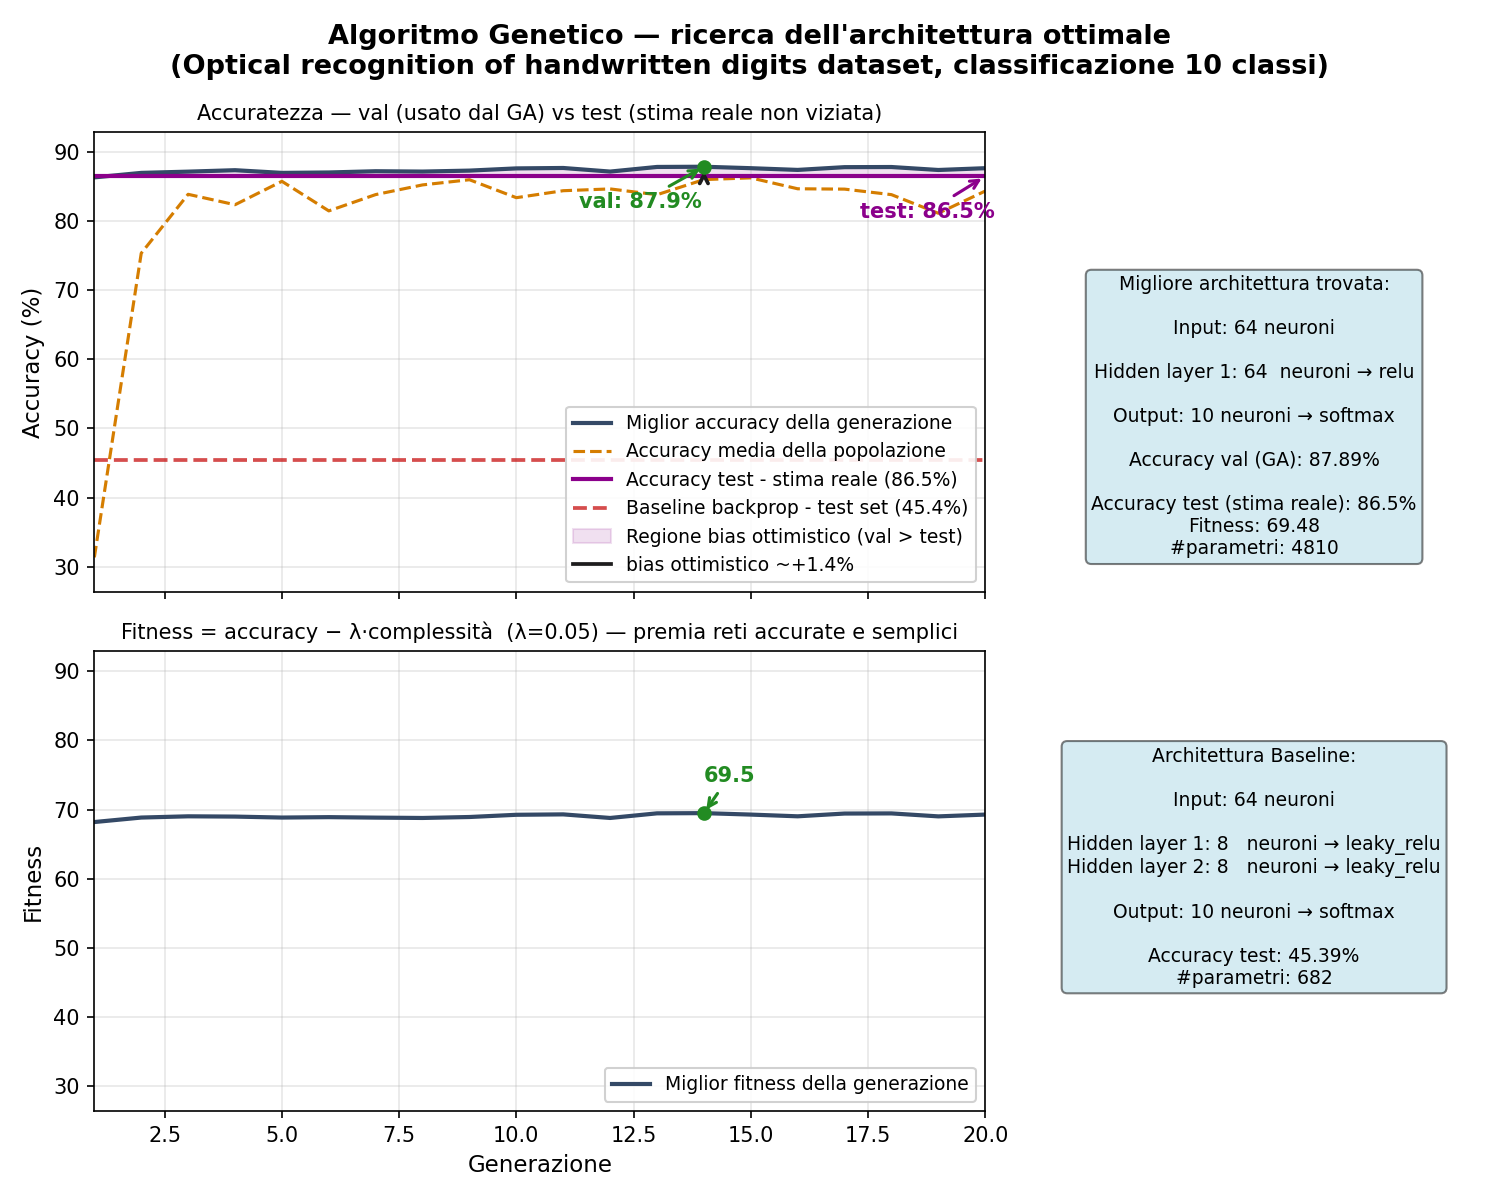
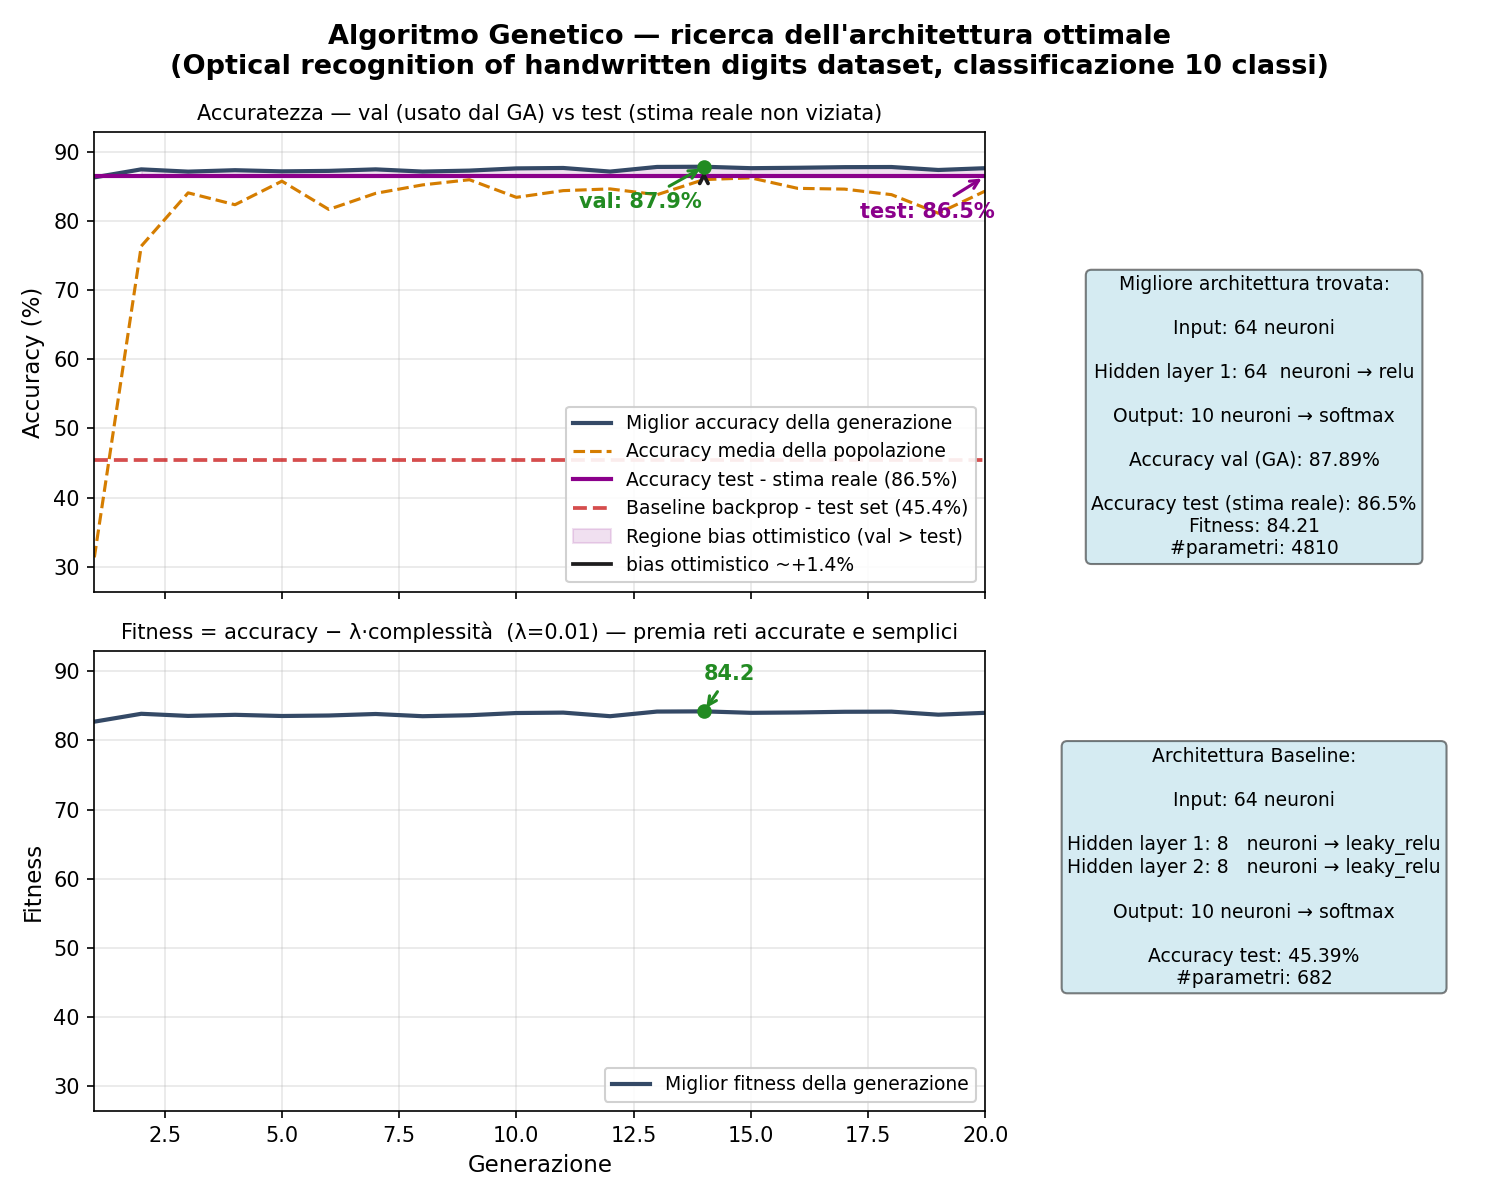
style: added logging in all main modules; test: training_a_nn and test_on_trained_nn created to use the best nn architecture founded

diff --git a/src/training_a_nn.py b/src/training_a_nn.py
@@ -1,0 +1,131 @@
+import sys
+from pathlib import Path
+sys.path.insert(0, str(Path(__file__).resolve().parent))
+
+from neural_network.nn_engine import neural_network
+from neural_network.nn_layer import leaky_relu, softmax
+from sklearn.datasets import load_digits
+from sklearn.model_selection import train_test_split
+from sklearn.preprocessing import StandardScaler
+from scipy.ndimage import gaussian_filter, shift
+import numpy as np
+import pickle
+import random
+
+RUNS          = 15
+EPOCHS        = 1000
+LR_START      = 0.02   # learning rate iniziale
+LR_DECAY      = 0.97   # moltiplicatore ogni 50 epoche
+LR_MIN        = 0.003  # soglia minima
+SAVE_PATH     = Path(__file__).resolve().parent / "test_app" / "model.pkl"
+
+
+def augment_sample(img8x8, rng):
+    """
+    Trasforma un campione 8×8 (valori 0–16) simulando variazioni realistiche:
+    - blur gaussiano (simula il pennello morbido del canvas)
+    - jitter spaziale ±1 pixel (simula diverse centrature)
+    - scaling dell'intensità ×0.7–1.3 (simula diversa pressione del pennello)
+    - rumore gaussiano leggero
+    """
+    img = img8x8.reshape(8, 8).astype(float)
+
+    # blur: simula il falloff del pennello
+    sigma = rng.uniform(0.2, 0.8)
+    img = gaussian_filter(img, sigma=sigma)
+
+    # jitter spaziale: shift ±1 px con bordi a 0
+    dr = rng.integers(-1, 2)
+    dc = rng.integers(-1, 2)
+    img = shift(img, [dr, dc], mode='constant', cval=0.0)
+
+    # scaling intensità
+    scale = rng.uniform(0.70, 1.30)
+    img = img * scale
+
+    # rumore gaussiano leggero
+    img = img + rng.normal(0, 0.5, img.shape)
+
+    return np.clip(img, 0, 16).reshape(-1)
+
+
+def build_augmented_set(X_raw, Y_raw, rng, n_aug=4):
+    """
+    Costruisce il training set aumentato:
+    - campioni originali
+    - n_aug versioni augmentate per campione
+    - versione binarizzata (simula vecchia UI binaria)
+    """
+    parts_X = [X_raw]
+    parts_Y = [Y_raw]
+
+    for _ in range(n_aug):
+        X_aug = np.array([augment_sample(x, rng) for x in X_raw])
+        parts_X.append(X_aug)
+        parts_Y.append(Y_raw)
+
+    # binarizzata: pixel >= 8 → 16, altrimenti 0
+    X_bin = np.where(X_raw >= 8.0, 16.0, 0.0)
+    parts_X.append(X_bin)
+    parts_Y.append(Y_raw)
+
+    return np.vstack(parts_X), np.vstack(parts_Y)
+
+
+if __name__ == "__main__":
+    digits = load_digits()
+    X, y = digits.data, digits.target
+    Y_onehot = np.eye(10)[y]
+
+    best_accuracy = 0.0
+
+    for run in range(RUNS):
+        seed = random.randint(0, 1000)
+        rng = np.random.default_rng(seed)
+
+        X_train_raw, X_test_raw, Y_train, Y_test = train_test_split(
+            X, Y_onehot, test_size=0.2, random_state=seed, stratify=y
+        )
+
+        X_train_aug, Y_train_aug = build_augmented_set(X_train_raw, Y_train, rng)
+
+        scaler = StandardScaler()
+        X_train_scaled = scaler.fit_transform(X_train_aug)
+        X_test_scaled  = scaler.transform(X_test_raw)
+
+        nn = neural_network(
+            hidden_config=[(64, leaky_relu), (32, leaky_relu)],
+            size_input=64,
+            size_output=10,
+            learning_rate=LR_START,
+            output_function=softmax,
+            rng=rng,
+        )
+
+        for epoch in range(EPOCHS):
+            # learning rate decay ogni 50 epoche
+            if epoch > 0 and epoch % 50 == 0:
+                nn.lr = max(LR_MIN, nn.lr * LR_DECAY)
+
+            perm = np.random.permutation(len(X_train_scaled))
+            for idx in perm:
+                nn.feedback(X_train_scaled[idx], Y_train_aug[idx])
+
+        correct = sum(
+            1 for j in range(len(X_test_scaled))
+            if np.argmax(nn.feedforward(X_test_scaled[j])['guess']) == np.argmax(Y_test[j])
+        )
+        accuracy = correct / len(X_test_scaled)
+        final_lr = nn.lr
+
+        print(f"run {run+1:2d}/{RUNS}  seed={seed:4d}  acc={accuracy:.4f}  lr_final={final_lr:.5f}", end="")
+
+        if accuracy > best_accuracy:
+            best_accuracy = accuracy
+            with open(SAVE_PATH, "wb") as f:
+                pickle.dump({"nn": nn, "scaler": scaler}, f)
+            print("  ← saved")
+        else:
+            print()
+
+    print(f"\nbest accuracy: {best_accuracy:.4f}  →  {SAVE_PATH}")

diff --git a/src/main.py b/src/main.py
@@ -15,8 +15,13 @@ import os
 import time
 import logging
 
-logging.basicConfig(level=logging.INFO, format="[%(levelname)s] %(message)s")
+logging.basicConfig(level=logging.INFO, 
+                    format="[%(levelname)s] %(message)s",
+                    filename='app.log',         # Nome del file di output
+                    filemode='w'
+                    )
 logger = logging.getLogger(__name__)
+
 
 
 def one_hot(y, n_classes=3):
@@ -94,15 +99,15 @@ def mean_accuracy_on_K_runs(individuo, n_feature, n_output, learning_rate, epoch
 
 SEED = 0
 
-K = 20 # numero di addestramenti per individuo
+K = 3 # numero di addestramenti per individuo
 
-POPULATION_SIZE = 30
-GENERATIONS = 20
+POPULATION_SIZE = 20
+GENERATIONS = 50
 MUTATION_RATE = 0.2
 TOURNAMENT_SIZE = 10
 EPOCHS = 500
-LEARNING_RATE = 0.01
-LAMBDA_ = 0.01
+LEARNING_RATE = 0.05
+LAMBDA_ = 0.05
 
 
 def run(
@@ -182,9 +187,9 @@ def run(
     # della rete migliore trovata
 
     # primo split: separa il test set (20% del totale) → non sarà mai usato nel GA
-    x_trainval, x_test, y_trainval, y_test = train_test_split(x, y, test_size=0.2, random_state=seed)
+    x_trainval, x_test, y_trainval, y_test = train_test_split(x, y, test_size=0.2, random_state=seed, stratify=y)
     # secondo split: separa val dal rimanente 80% → usato dal GA per valutare la fitness
-    x_train, x_val, y_train, y_val = train_test_split(x_trainval, y_trainval, test_size=0.25, random_state=seed)
+    x_train, x_val, y_train, y_val = train_test_split(x_trainval, y_trainval, test_size=0.25, random_state=seed, stratify=y_trainval)
     # 0.25 x 0.80 = 0.2 del totale → split finale 60/20/20
 
     # Normalizzazione: X ← (X - media(X)) / std(X)
@@ -206,7 +211,7 @@ def run(
         y_train, x_train, y_test, x_test,
         K, seed=seed
     )
-    logger.info(f"accuracy della rete baseline: {round(accuracy_baseline * 100, 2)}%\n#params: {number_params(input_size, cromosoma_baseline, n_classi)}")
+    logger.debug(f"accuracy della rete baseline: {round(accuracy_baseline * 100, 2)}%\n#params: {number_params(input_size, cromosoma_baseline, n_classi)}")
 
     # ESECUZIONE DEL Genetic Algorithm
     ga = genetic_algorithm.GeneticAlgorithm(
@@ -230,7 +235,7 @@ def run(
     (best_individuo, best_fitness, best_accuracy,
      storia_best_fitness, storia_best_accuracy, storia_mean_accuracy) = ga.run()
     stop_time = time.perf_counter()
-    logger.info(f"tempo di esecuzione: {stop_time - start_time:.2f}s")
+    logger.debug(f"tempo di esecuzione: {stop_time - start_time:.2f}s")
 
     storia_best_fitness  = [round(v * 100, 2) for v in storia_best_fitness]
     storia_best_accuracy = [round(v * 100, 2) for v in storia_best_accuracy]
@@ -244,7 +249,7 @@ def run(
         K=K, seed=seed
     )
 
-    logger.info(f"Accuracy sul validation set (ottimizzazione GA): {round(best_accuracy * 100, 2)}%")
+    logger.debug(f"Accuracy sul validation set (ottimizzazione GA): {round(best_accuracy * 100, 2)}%")
     logger.info(f"Accuracy sul test set (stima reale): {round(test_accuracy * 100, 2)}%")
 
     # formatting per grafica e output
@@ -254,10 +259,10 @@ def run(
     test_accuracy_pct  = round(test_accuracy * 100, 2)
 
     logger.info(f"Miglior architettura trovata:\n{best_individuo_str}")
-    logger.info(f"Fitness: {best_fitness_pct}")
-    logger.info(f"Accuracy val: {best_accuracy_pct}%")
-    logger.info(f"Numero di layer={len(best_individuo_str)}")
-    logger.info(f"#parametri={number_params(input_size, best_individuo_str, n_classi)}")
+    logger.debug(f"Fitness: {best_fitness_pct}")
+    logger.debug(f"Accuracy val: {best_accuracy_pct}%")
+    logger.debug(f"Numero di layer={len(best_individuo_str)}")
+    logger.debug(f"#parametri={number_params(input_size, best_individuo_str, n_classi)}")
 
     ########################################GRAFICA########################################
 
@@ -433,4 +438,4 @@ def run(
 
 if __name__ == "__main__":
     dataset = load_digits()
-    run(dataset=dataset, plot=False)
+    run(dataset=dataset, plot=True)

diff --git a/src/test_on_trained_nn.py b/src/test_on_trained_nn.py
@@ -1,0 +1,35 @@
+from sklearn.datasets import load_digits
+import numpy as np
+import pickle
+
+with open("model.pkl", "rb") as f:
+    data = pickle.load(f)
+
+nn     = data["nn"]
+scaler = data["scaler"]
+
+digits = load_digits()
+X, y   = digits.data, digits.target
+# test su un singolo campione
+idx     = 7
+sample  = X[idx]
+label   = y[idx]
+print()
+
+
+x_scaled = scaler.transform([sample])
+print(sample)
+print(x_scaled)
+pred     = np.argmax(nn.feedforward(x_scaled[0])['guess'])
+
+print(f"Campione #{idx} — reale: {label}, predetto: {pred}, {'OK' if pred == label else 'ERRORE'}")
+
+# accuracy sull'intero dataset
+correct = 0
+for i in range(len(X)):
+    x_scaled = scaler.transform([X[i]])
+    pred = np.argmax(nn.feedforward(x_scaled[0])['guess'])
+    if pred == y[i]:
+        correct += 1
+
+print(f"Accuracy su tutto il dataset: {correct / len(X) * 100:.2f}%")

diff --git a/src/neural_network/genetic_algorithm.py b/src/neural_network/genetic_algorithm.py
@@ -339,7 +339,7 @@ class GeneticAlgorithm:
             storia_mean_accuracy.append(np.nanmean(accuracy_scores))
 
             # stampa dell'avanzamento
-            logger.info(f"[gen: {i:>3}] best fitness: {round(storia_best_fitness[-1]*100, 2):>5} | best accuracy: {round(storia_best_accuracy[-1] * 100, 2):>5}% | mean accuracy: {round(storia_mean_accuracy[-1] * 100, 2):>5}%")
+            logger.debug(f"[gen: {i:>3}] best fitness: {round(storia_best_fitness[-1]*100, 2):>5} | best accuracy: {round(storia_best_accuracy[-1] * 100, 2):>5}% | mean accuracy: {round(storia_mean_accuracy[-1] * 100, 2):>5}%")
 
 
 
